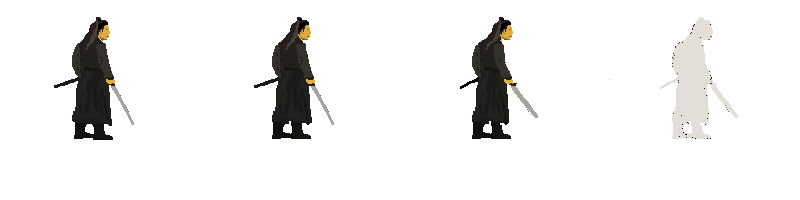
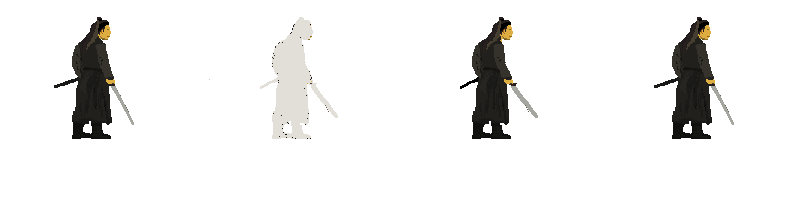
atualizção4 movimentação dos sprites

diff --git a/js/classes.js b/js/classes.js
@@ -16,7 +16,7 @@ class Sprite {
     this.framesMax = framesMax
     this.framesCurrent = 0
     this.framesElapsed = 0
-    this.framesHold = 10
+    this.framesHold = 5
     this.offset = offset
   }
 
@@ -124,6 +124,7 @@ class Fighter extends Sprite {
   }
 
   attack() {
+    this.switchSprite('ataque')
     this.isAttacking = true;
     setTimeout(() => {
       this.isAttacking = false;
@@ -131,6 +132,11 @@ class Fighter extends Sprite {
   }
 
   switchSprite (sprite){
+    if (
+      this.image === this.sprites.ataque.image && 
+      this.framesCurrent < this.sprites.ataque.framesMax -1
+      ) return
+
     switch (sprite){
       case 'parado':
         if (this.image !== this.sprites.parado.image){
@@ -159,7 +165,14 @@ class Fighter extends Sprite {
             this.framesMax = this.sprites.caindo.framesMax
             this.framesCurrent = 0
           }
-          break      
+          break  
+          case 'ataque':
+            if (this.image !== this.sprites.ataque.image){
+              this.image = this.sprites.ataque.image
+              this.framesMax = this.sprites.ataque.framesMax
+              this.framesCurrent = 0
+            }
+            break       
     }
   }
 }

diff --git a/script.js b/script.js
@@ -43,7 +43,7 @@ const player = new Fighter({
     },
     correndo: {
       imageSrc: '/jet/correndo.png',
-      framesMax: 4
+      framesMax: 6
       },
     salto: {
       imageSrc: '/jet/salto.png',
@@ -52,6 +52,10 @@ const player = new Fighter({
     caindo: {
       imageSrc: '/jet/caindo.png',
       framesMax: 2
+     },
+    ataque: {
+      imageSrc: '/jet/ataque.png',
+      framesMax: 5
      }
   }
 });
